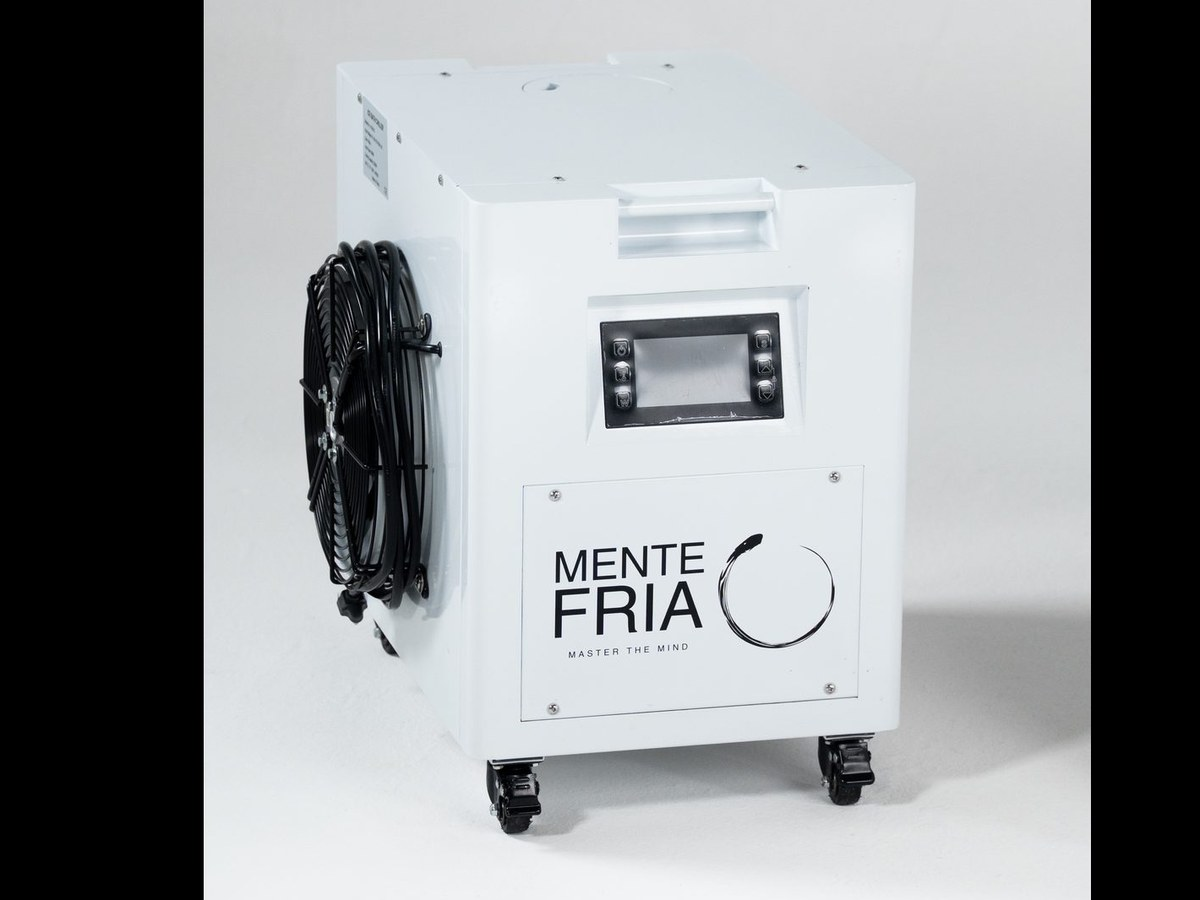
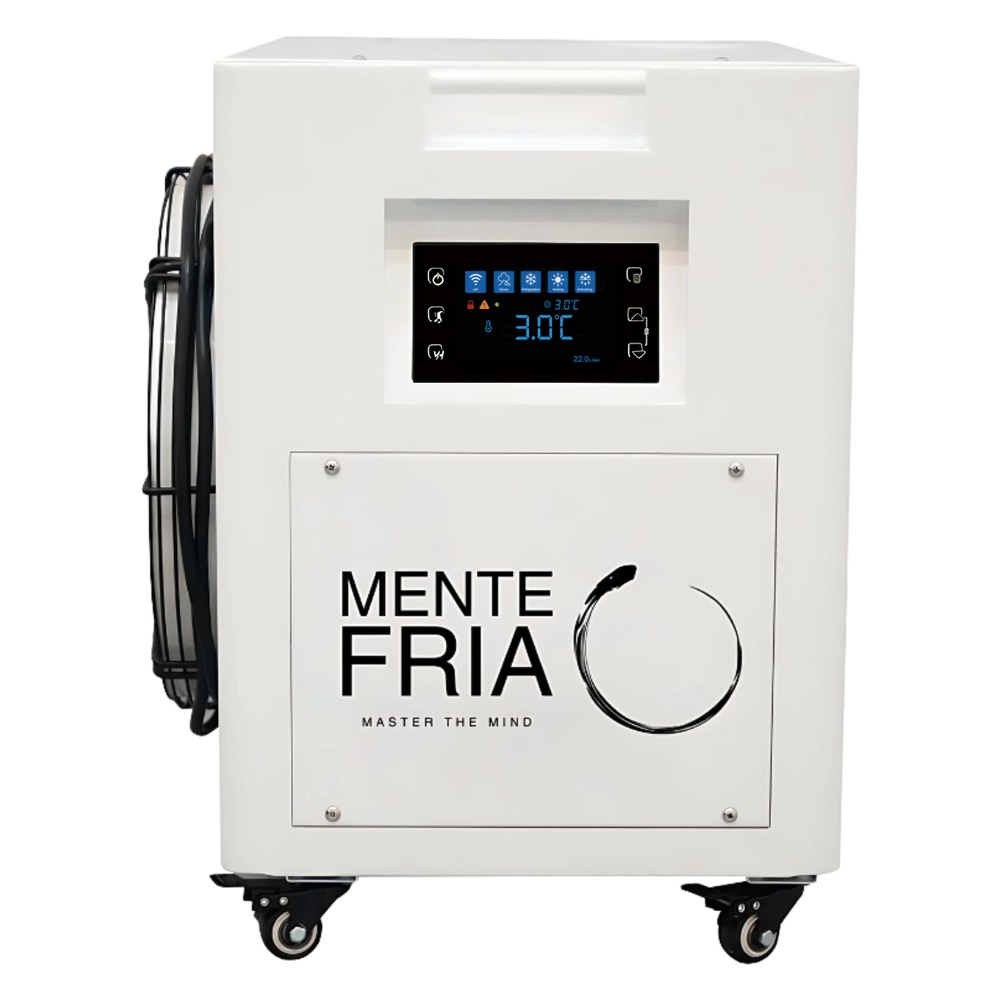
Fotos nuevas de los motores en el comparador, sin franjas negras
Saul: las fotos de los motores se ven espantosas por los bordes negros. Dejo
una carpeta con una foto de cada color en buena calidad.

Eran dos cosas a la vez. Los archivos viejos traian franjas negras a los lados,
y encima la caja usaba object-cover, que recorta para llenar, asi que ademas de
las franjas se comia parte del equipo.

Las dos fotos nuevas salen de la carpeta, recortadas al ras del equipo y
centradas sobre blanco en cuadrado de 1000x1000. La caja pasa a object-contain
con fondo blanco, asi que el motor se ve completo y sin franjas.

La tercera, la del Motor MF ONE, era un recorte oscuro de la galeria y
desentonaba con las otras dos. Ahora es el render de ficha sobre blanco, que es
lo mas honesto: en la MF ONE el motor va integrado y no hay pieza suelta que
ensenar. Si se prefiere otra imagen ahi, es una linea.

diff --git a/src/components/ComparadorMotores.tsx b/src/components/ComparadorMotores.tsx
@@ -38,9 +38,14 @@ type Valor = { t: string; ok?: boolean } | null; // null = no incluye
 type Fila = { label: string; valores: Record<MotorId, Valor> };
 
 const MOTORES: Record<MotorId, { nombre: string; img: string }> = {
+  /* Las tres sobre blanco y con el equipo completo dentro del cuadro. Antes
+     eran recortes con franjas negras a los lados (Saul, sep 2026: "espantosas
+     por los bordes negros"). Las dos de motor salen de la carpeta que dejo con
+     una foto por color; la de la MF ONE es el render de ficha, porque ahi el
+     motor va integrado y no hay pieza suelta que ensenar. */
   pro: { nombre: "Motor Pro 2.0", img: "/images/motor-2-0-blanco.jpg" },
   premium: { nombre: "Motor Premium 2.0", img: "/images/motor-2-0-negro.jpg" },
-  mfone: { nombre: "Motor MF ONE", img: "/images/mfone-gallery/negro/01.jpg" },
+  mfone: { nombre: "Motor MF ONE", img: "/images/pdp-one-negro.png" },
 };
 
 const FILAS: Fila[] = [
@@ -167,9 +172,11 @@ export function ComparadorMotores({ disponibles }: { disponibles: MotorId[] }) {
         <div className={`grid ${gridValores}`}>
           {elegidos.map((id, i) => (
             <div key={id} className={`flex flex-col items-center px-3 py-5 text-center ${i > 0 ? "border-l border-[var(--line-1)]" : ""}`}>
-              <div className="h-16 w-20 overflow-hidden rounded-[10px] bg-[var(--bg-panel)] sm:h-20 sm:w-28">
+              {/* object-contain, no cover: con cover se recortaba el equipo y
+                  quedaban las franjas negras del archivo a los lados. */}
+              <div className="grid h-16 w-20 place-items-center overflow-hidden rounded-[10px] bg-white p-1.5 sm:h-20 sm:w-28">
                 {/* eslint-disable-next-line @next/next/no-img-element */}
-                <img src={MOTORES[id].img} alt="" loading="lazy" decoding="async" className="h-full w-full object-cover" />
+                <img src={MOTORES[id].img} alt="" loading="lazy" decoding="async" className="max-h-full max-w-full object-contain" />
               </div>
               <p className="mt-3 text-[12.5px] font-semibold leading-tight sm:text-[14px]">{MOTORES[id].nombre}</p>
             </div>

diff --git a/docs/cambios-rafa-2026-09-23.md b/docs/cambios-rafa-2026-09-23.md
@@ -17,7 +17,7 @@ export PATH=/Users/SaulP/.local/opt/node/bin:$PATH && cd ~/mentefria/mentefria-s
 
 ## Pendientes de publicar a Shopify
 
-Diecinueve. Lo de abajo de la segunda tabla ya está en el tema borrador.
+Veinte. Lo de abajo de la segunda tabla ya está en el tema borrador.
 
 | # | Comentario | Qué se hizo | Archivos |
 |---|---|---|---|
@@ -40,6 +40,7 @@ Diecinueve. Lo de abajo de la segunda tabla ya está en el tema borrador.
 | 23 | Cambiar la foto del Pro Deck del bloque Complemento por una donde solo salga el escalón con sus letras MIND OVER BODY. | Recortadas de los renders: la negra de negro-1 y la blanca de blanco-2, que es donde el escalón sale separado de la tina. Puestas sobre el mismo gris del render en formato 1.8 a 1, que es el de la caja de la tarjeta. | 2 imágenes + mf-one |
 | 24 | En el resultado del quiz la foto de la MF ONE blanca tiene fondo gris y desentona. | Era la única de las seis con fondo. Se rehicieron las dos de la MF ONE a partir de los renders de ficha, que están sobre blanco, así que ahora las seis van sobre blanco y la pareja negra y blanca es el mismo render en dos colores. | 2 imágenes |
 | 25 | El pie de página en teléfono está sobresaturado, mucha información desde el inicio y mal acomodada. | Los cinco grupos pasan a estar plegados: se ve la estructura y se abre lo que se busca. Antes eran 24 enlaces de golpe en dos columnas de distinto largo, con huecos entre ellas. El pie baja de 1239 a 594px. En computadora no cambia nada. | Footer.tsx, metal.css |
+| 26 | Las fotos de los motores en el comparador se ven espantosas por los bordes negros. Dejó una carpeta con una foto por color. | Las dos fotos nuevas, recortadas al ras y centradas sobre blanco en cuadrado. Y la caja deja de recortar: pasa de object-cover a object-contain, que era lo que dejaba las franjas a los lados. La tercera, la del Motor MF ONE, era un recorte oscuro de la galería; ahora es el render de ficha sobre blanco. | 2 imágenes + ComparadorMotores |
 
 ---
 
